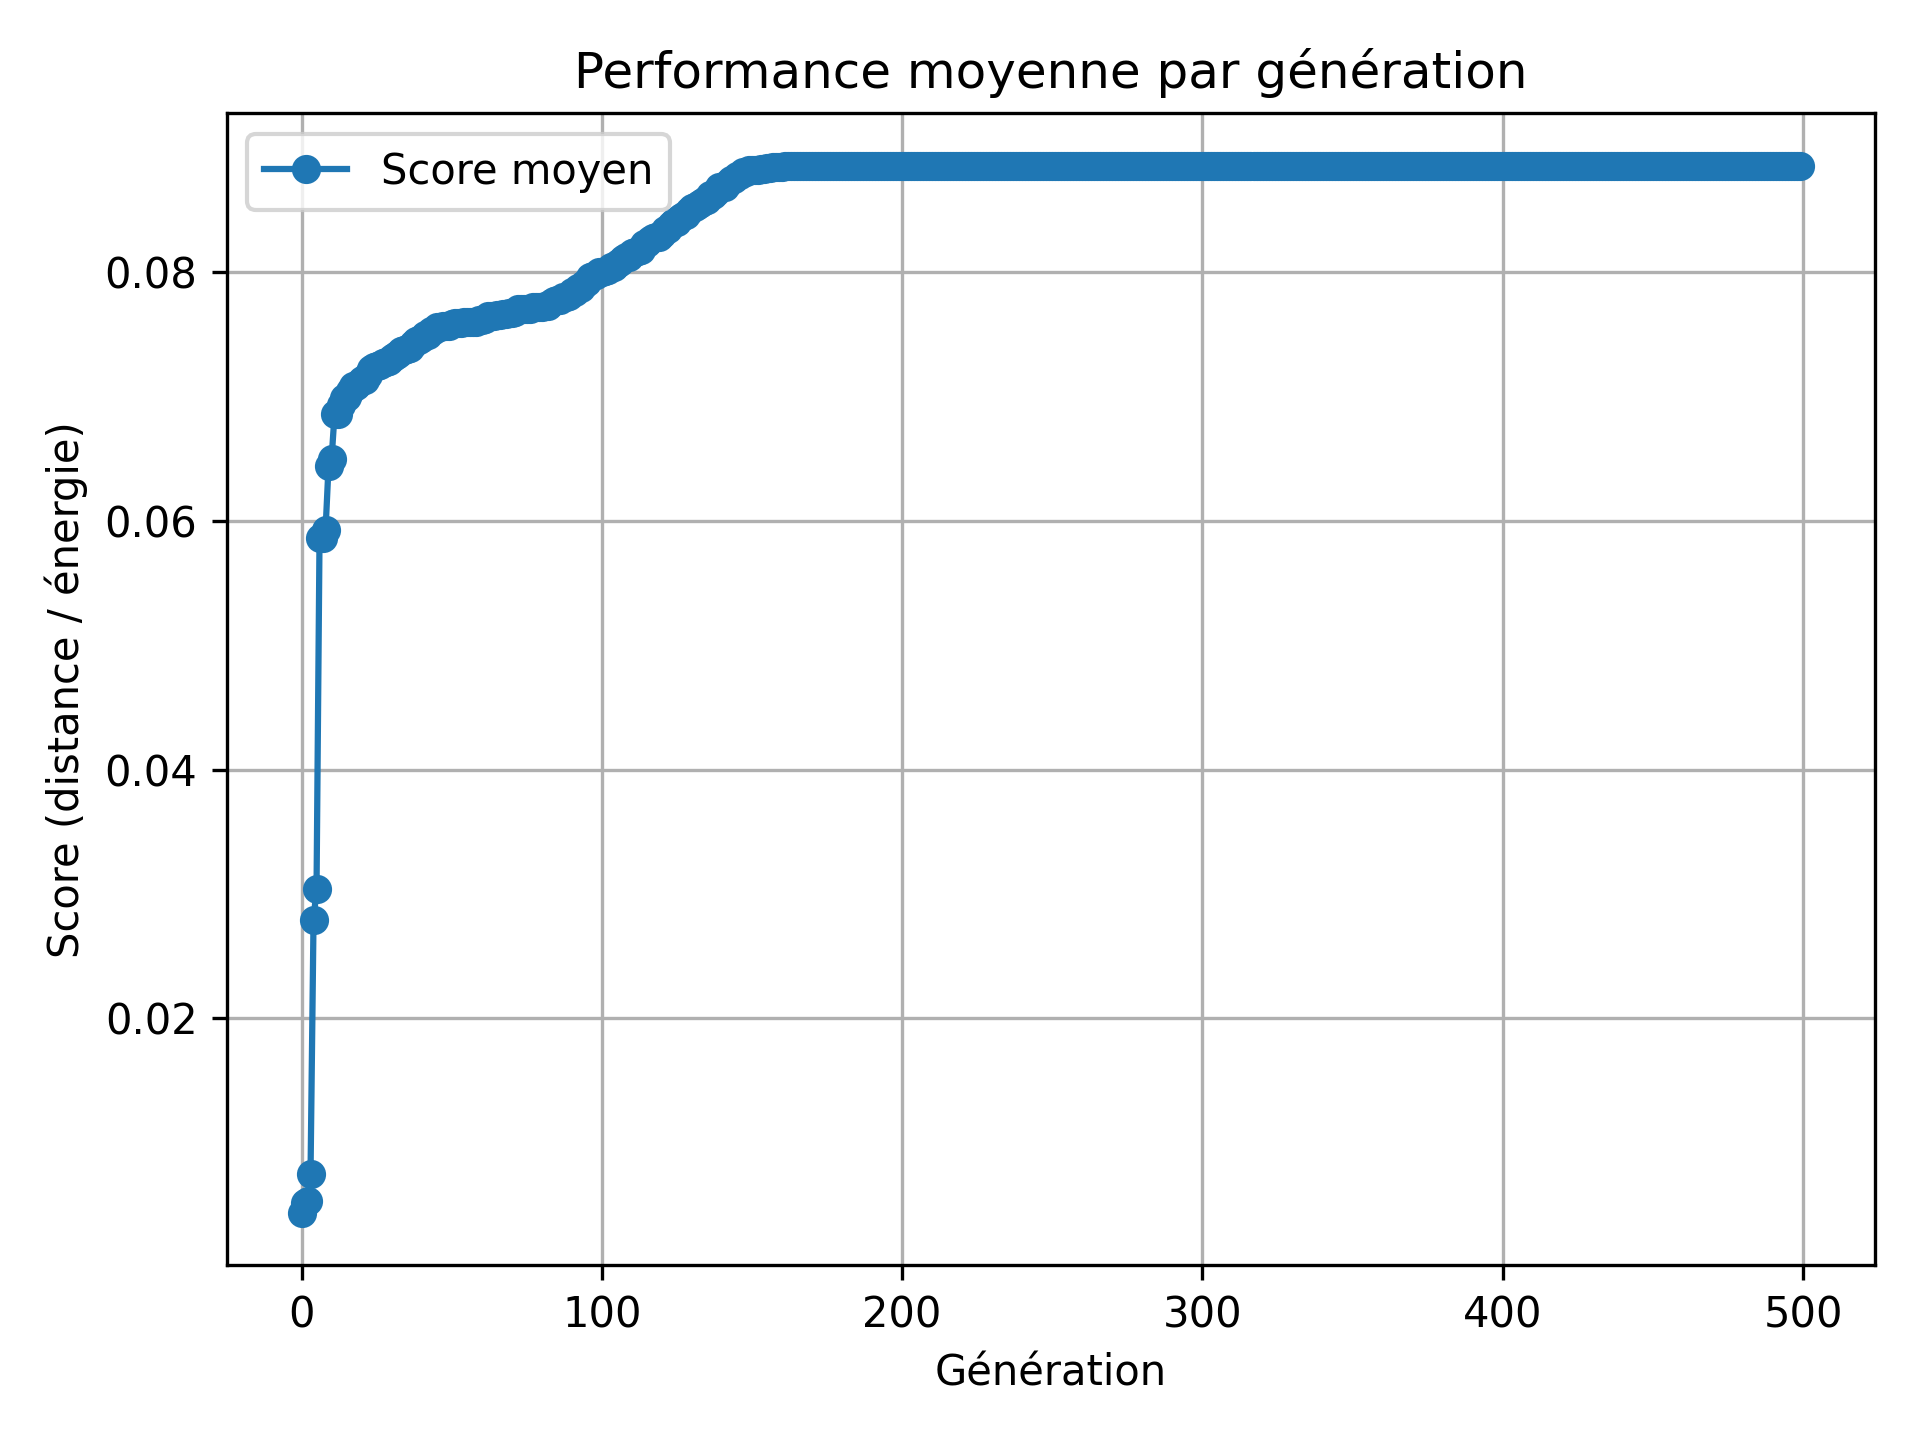
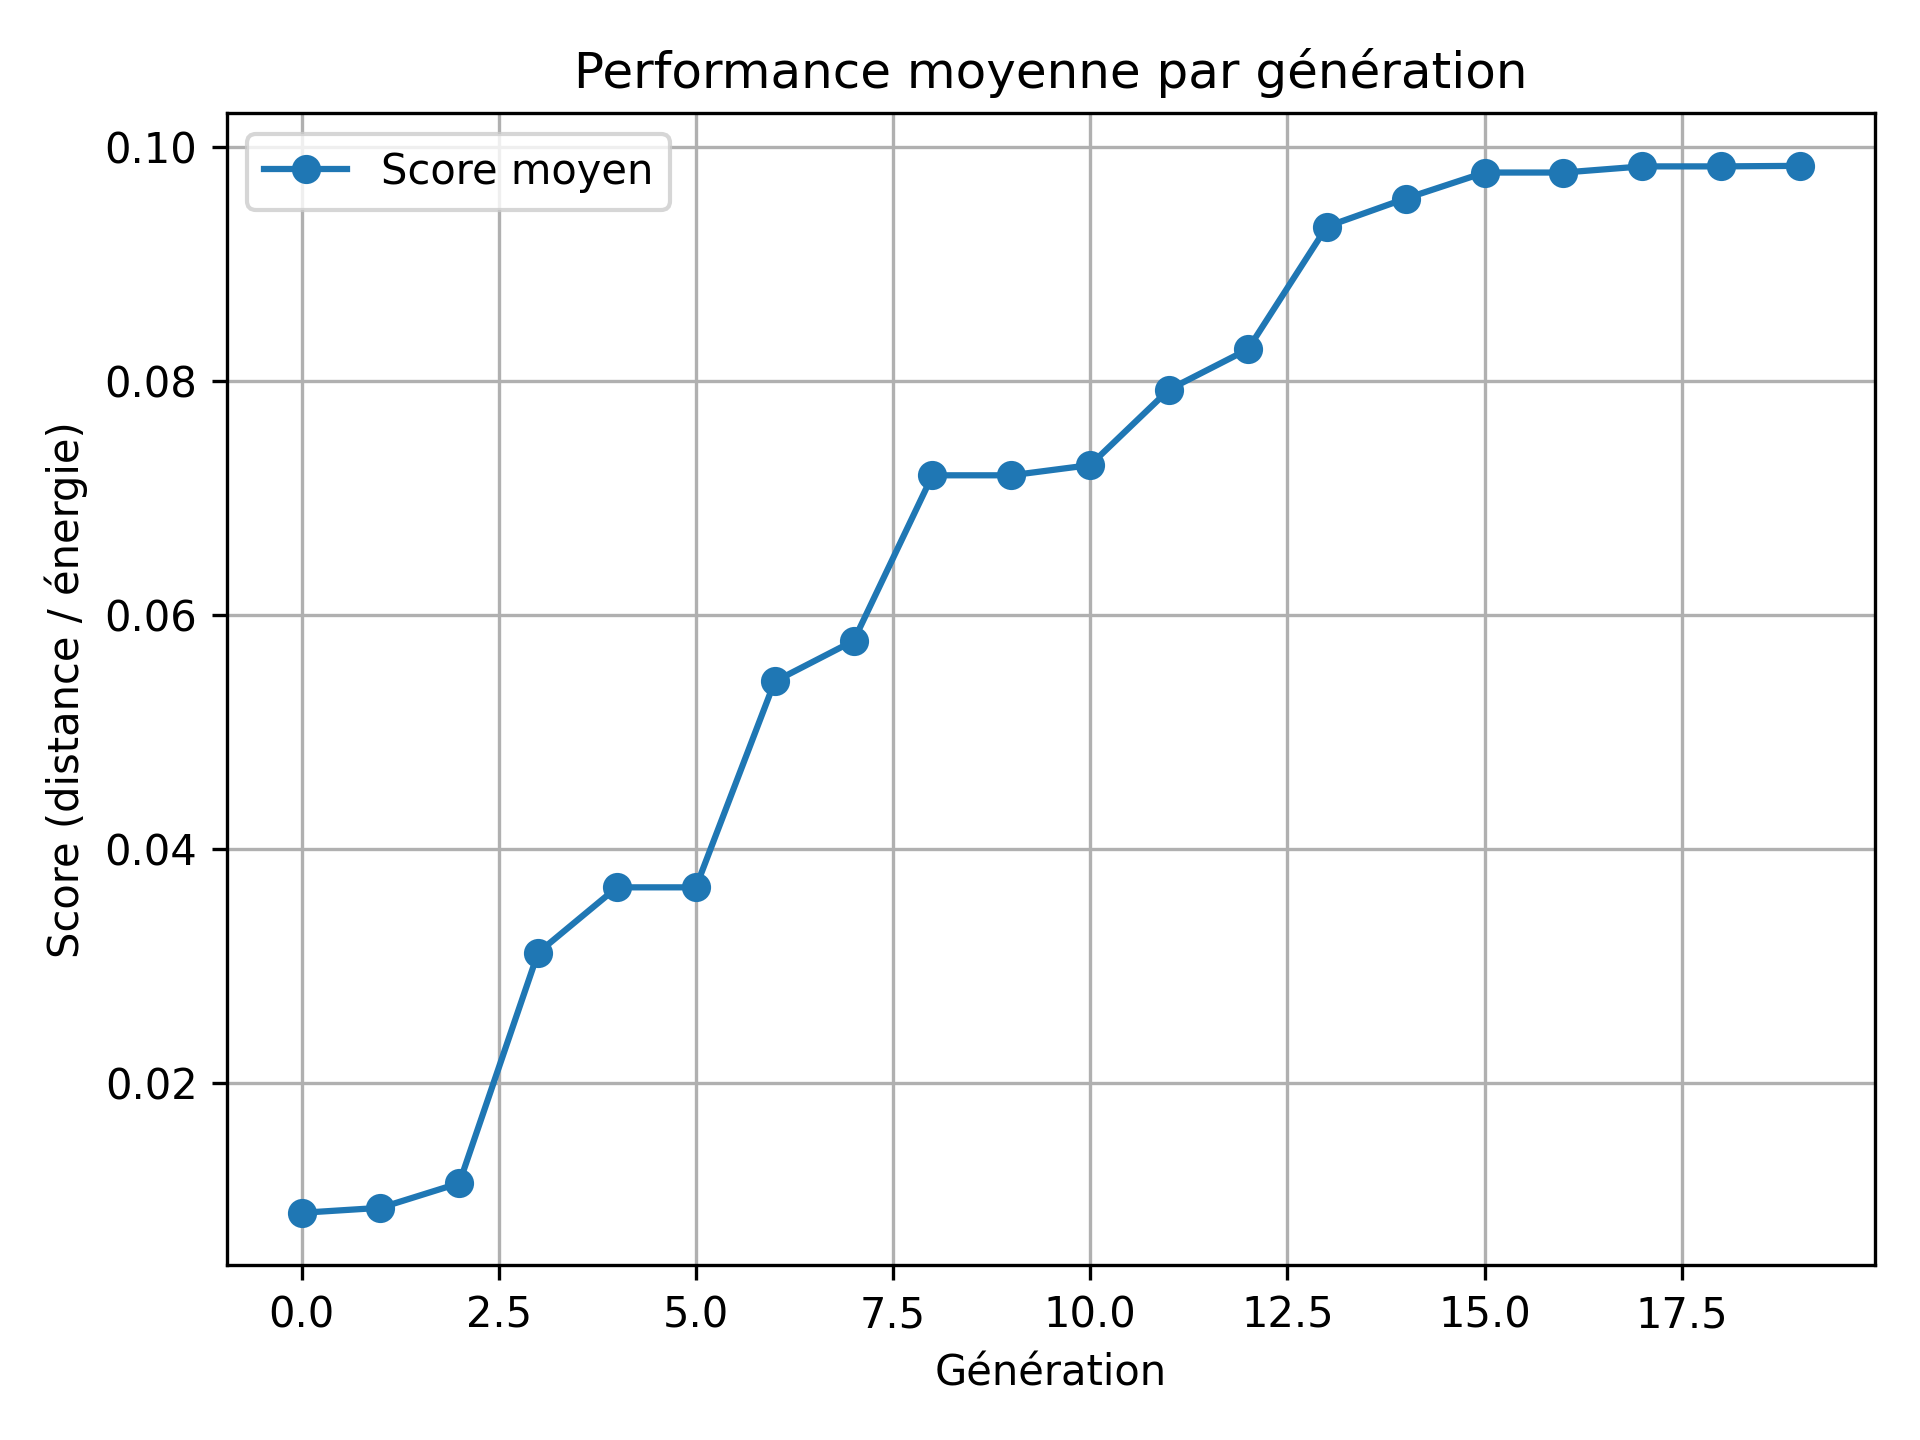
new genom

diff --git a/simulate_population.py b/simulate_population.py
@@ -24,11 +24,11 @@ minimal_genome = {
     ]
 }
 
-n = 100
+n = 2000
 dt = 0.01
 steps = 500
-generations = 500
-keep_fraction = 0.1
+generations = 20
+keep_fraction = 0.25
 mutation_strength = 0.01
 
 def simulate_creature_from_genome(genome):
